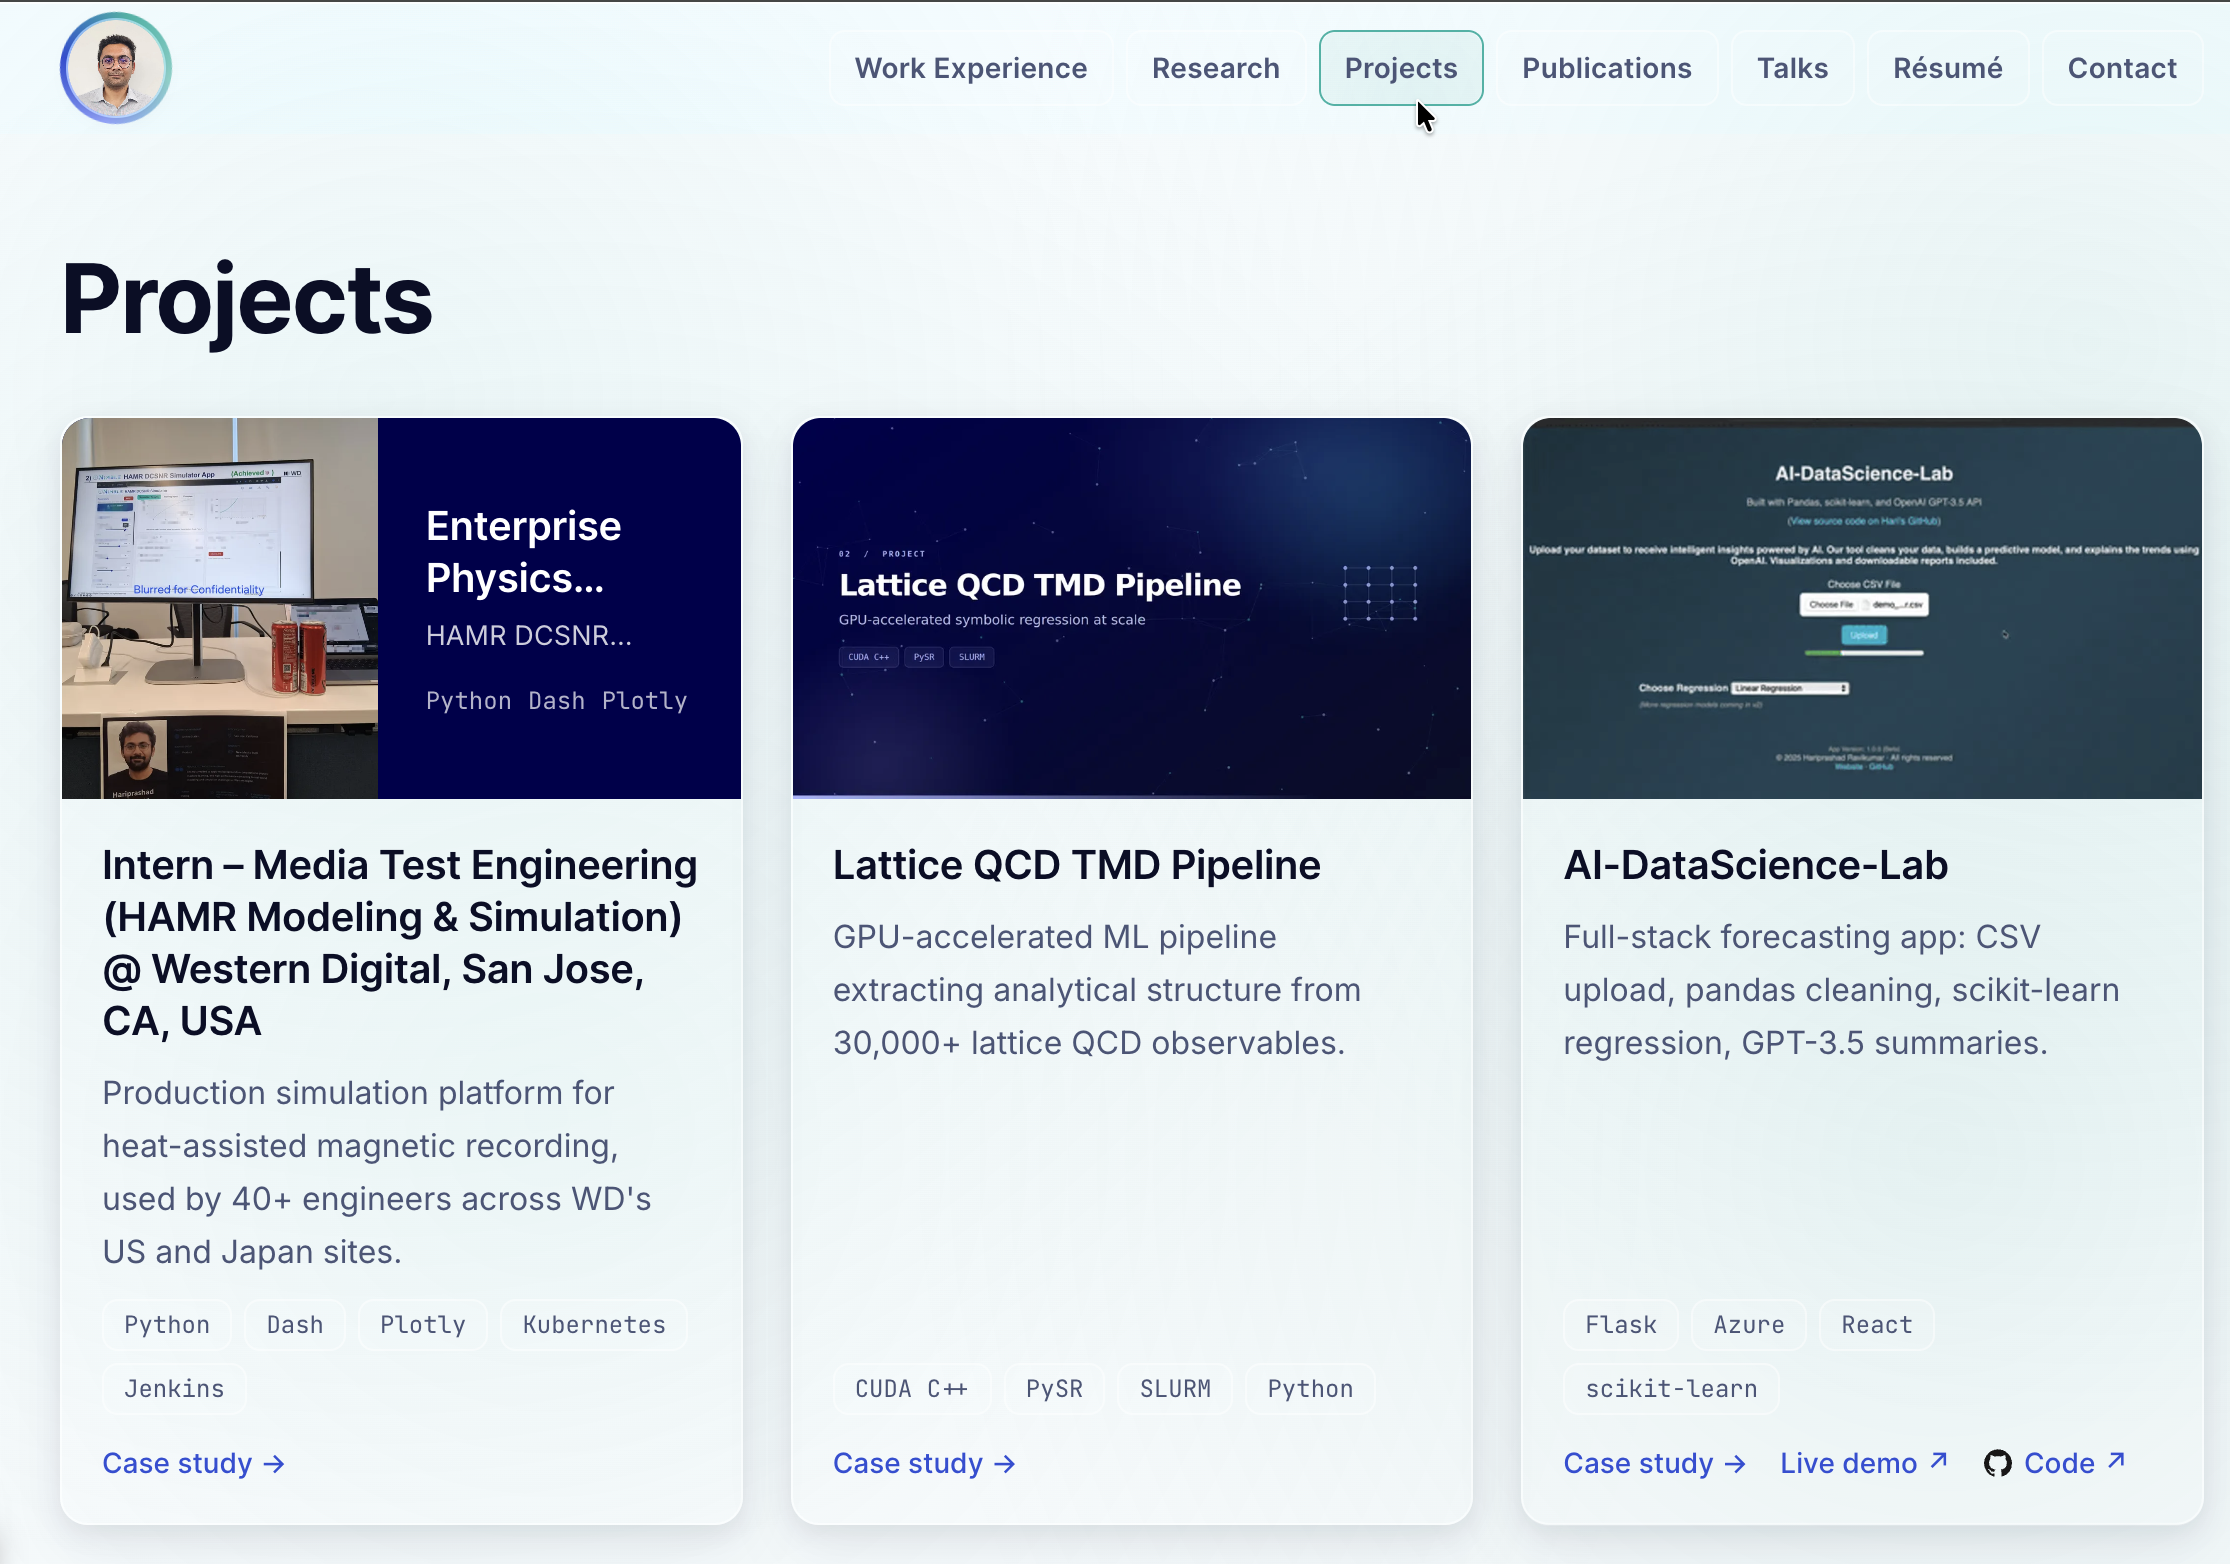
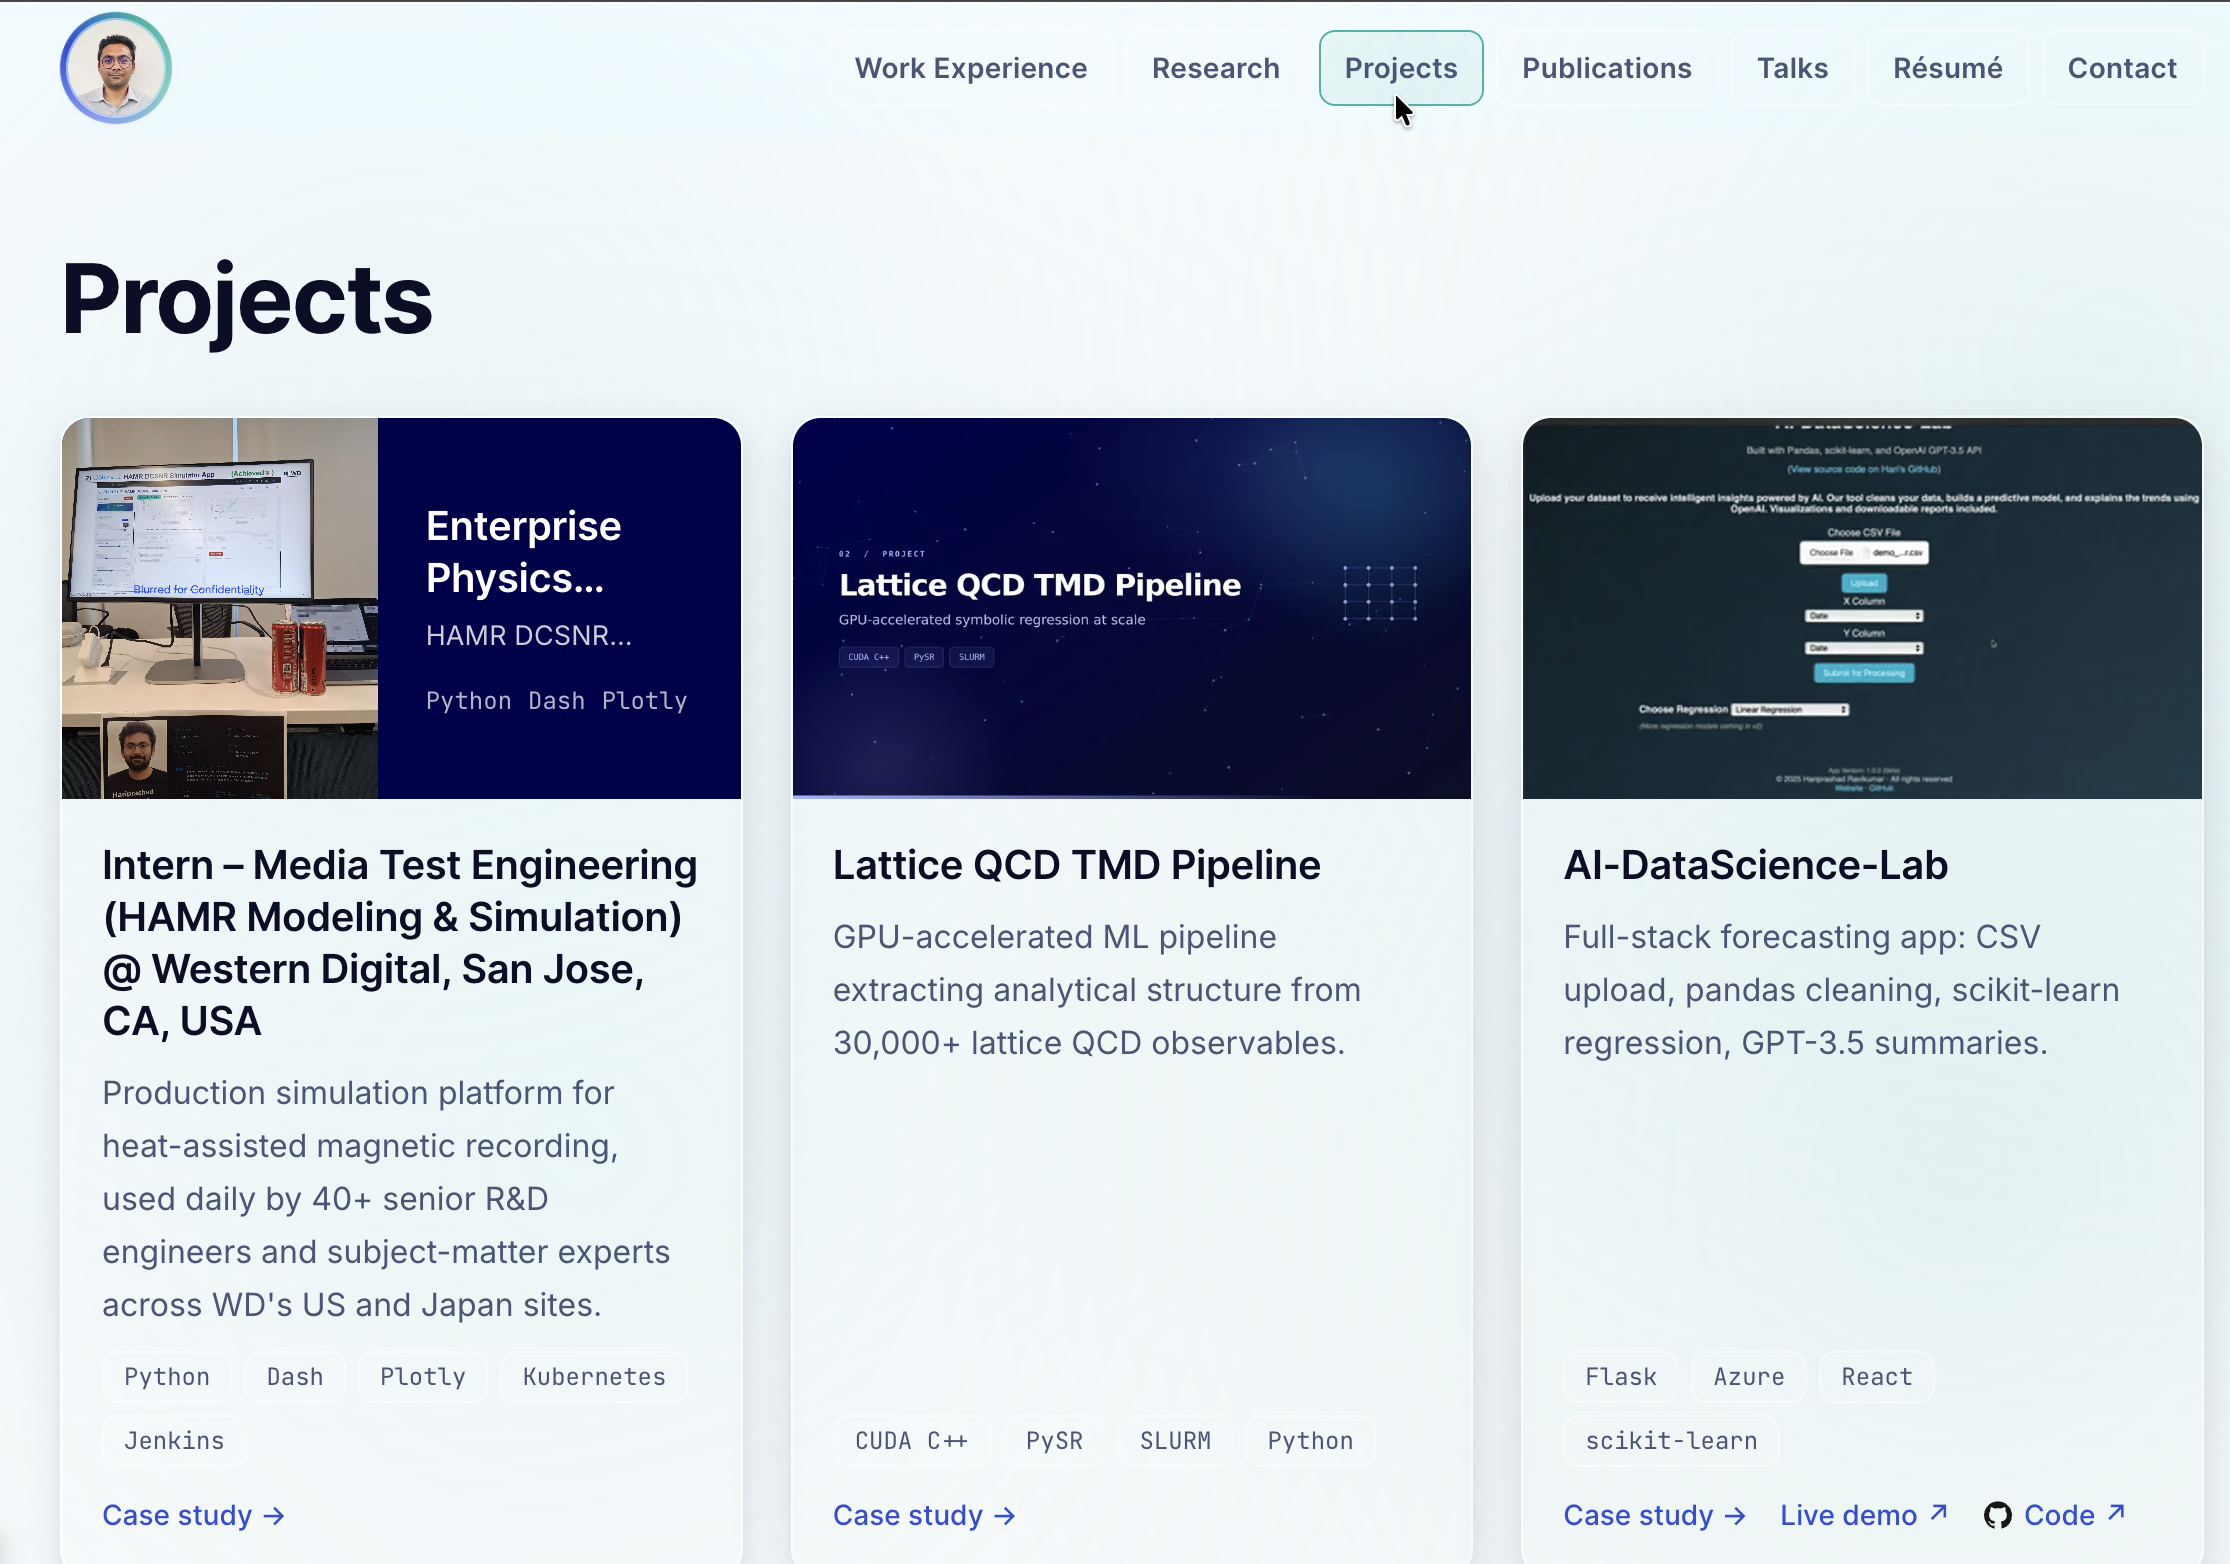
copy: reword "40+" stat to lead with seniority/expertise; refresh OG thumbnails
Rewords the "40+ engineers" phrasing site-wide (résumé, project card,
case-study body, home spotlight, SEO description) to "senior R&D engineers
and subject-matter experts", since the users are experienced domain
specialists rather than a headcount figure alone. Also refreshes all
per-page OG thumbnails from new manual screenshots reflecting this and the
prior session's visual fixes.

Claude-Session: https://claude.ai/code/session_01ALYuz3yLTYsZ2p4SE44b1y

diff --git a/app/projects/[slug]/page.tsx b/app/projects/[slug]/page.tsx
@@ -19,7 +19,7 @@ const SEO_OVERRIDES: Partial<Record<CaseStudySlug, { title: string; description:
   "wd-internship-2026": {
     title: "WD Internship: Enterprise HAMR Simulator (Western Digital)",
     description:
-      "My Western Digital internship building a full-stack enterprise Dash/Plotly HAMR DCSNR simulator adopted by 40+ WD engineers across the US and Japan.",
+      "My Western Digital internship building a full-stack enterprise Dash/Plotly HAMR DCSNR simulator adopted by 40+ senior WD R&D engineers and experts across the US and Japan.",
   },
 };
 
@@ -32,7 +32,7 @@ const ARTICLE_JSON_LD: Partial<Record<CaseStudySlug, Record<string, unknown>>> =
     "@type": "CreativeWork",
     headline: "WD Internship: Enterprise HAMR Simulator (Western Digital)",
     description:
-      "My Western Digital internship building a full-stack enterprise Dash/Plotly HAMR DCSNR simulator adopted by 40+ WD engineers across the US and Japan.",
+      "My Western Digital internship building a full-stack enterprise Dash/Plotly HAMR DCSNR simulator adopted by 40+ senior WD R&D engineers and experts across the US and Japan.",
     about: {
       "@type": "Organization",
       name: "Western Digital",

diff --git a/content/resume.ts b/content/resume.ts
@@ -23,7 +23,7 @@ export const INDUSTRY_EXPERIENCE = [
     bullets: [
       "Derived closed-form analytical models for HAMR grain magnetization dynamics from first principles (Néel–Arrhenius, Stoner–Wohlfarth), obtaining switching time, noise power, and probability-of-switching expressions across multi-write cycles to predict adjacent track erasure (ATI & xTI).",
       "Validated against Monte Carlo stochastic simulation and experimental spin-stand data on highly complex magnetic grain ensembles.",
-      "Built and deployed a full-stack enterprise Dash/Plotly simulation platform packaged as a modular Python library, adopted by sputtering and media engineering teams across WD sites in the US and Japan (40+ engineers).",
+      "Built and deployed a full-stack enterprise Dash/Plotly simulation platform packaged as a modular Python library, adopted by senior R&D engineers and subject-matter experts in WD's sputtering and media engineering teams across the US and Japan (40+ users).",
       "Architected CI/CD with Jenkins; deployed on Kubernetes.",
     ],
   },

diff --git a/components/home/WDSpotlight.tsx b/components/home/WDSpotlight.tsx
@@ -14,8 +14,8 @@ export default function WDSpotlight() {
       </div>
 
       <h2 className="text-h2 prose-measure mt-4 text-[var(--ink-900)]">
-        I built a full-stack enterprise HAMR simulator now used by 40+ engineers across WD&apos;s US and Japan
-        sites.
+        I built a full-stack enterprise HAMR simulator now used daily by 40+ senior R&amp;D engineers and
+        subject-matter experts across WD&apos;s US and Japan sites.
       </h2>
 
       <p className="text-body prose-measure mt-4 text-[var(--ink-700)]">
@@ -32,7 +32,7 @@ export default function WDSpotlight() {
       <div className="mt-6 flex flex-wrap gap-8">
         <div>
           <p className="text-mono-metric text-[var(--brand-900)]">40+</p>
-          <p className="text-small text-[var(--ink-500)]">engineers</p>
+          <p className="text-small text-[var(--ink-500)]">R&amp;D experts</p>
         </div>
         <div>
           <p className="text-mono-metric text-[var(--brand-900)]">2</p>

diff --git a/content/projects.ts b/content/projects.ts
@@ -24,7 +24,7 @@ export const PROJECTS: Project[] = [
     slug: "wd-internship-2026",
     title: "Intern – Media Test Engineering (HAMR Modeling & Simulation) @ Western Digital, San Jose, CA, USA",
     oneLiner:
-      "Production simulation platform for heat-assisted magnetic recording, used by 40+ engineers across WD's US and Japan sites.",
+      "Production simulation platform for heat-assisted magnetic recording, used daily by 40+ senior R&D engineers and subject-matter experts across WD's US and Japan sites.",
     tags: ["Python", "Dash", "Plotly", "Kubernetes", "Jenkins"],
     links: [{ label: "Case study", href: "/projects/wd-internship-2026/" }],
     cover: {

diff --git a/content/metrics.ts b/content/metrics.ts
@@ -6,7 +6,7 @@
 export const METRICS = {
   engineers: {
     value: "40+",
-    label: "active users across WD USA and Japan; adopted by sputtering and media engineering teams",
+    label: "senior R&D engineers and subject-matter experts in daily production use across WD's US and Japan sputtering/media teams",
   },
   speedup: { value: "10×", label: "faster simulation sweeps" },
   computeHours: { value: "75,000+", label: "CPU/GPU hours on NERSC Perlmutter" },
